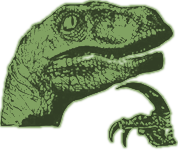
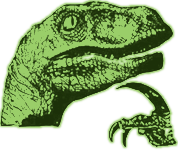
Emoticon: make (philosoraptor) higher contrast

diff --git a/app/models/emoticon.rb b/app/models/emoticon.rb
@@ -4,7 +4,7 @@ class Emoticon < ActiveRecord::Base
   validates :name, :image_data, presence: true
   scope :active, -> { where(active: true) }
 
-  VERSION = 4
+  VERSION = 5
 
 
   def self.by_version(version)
